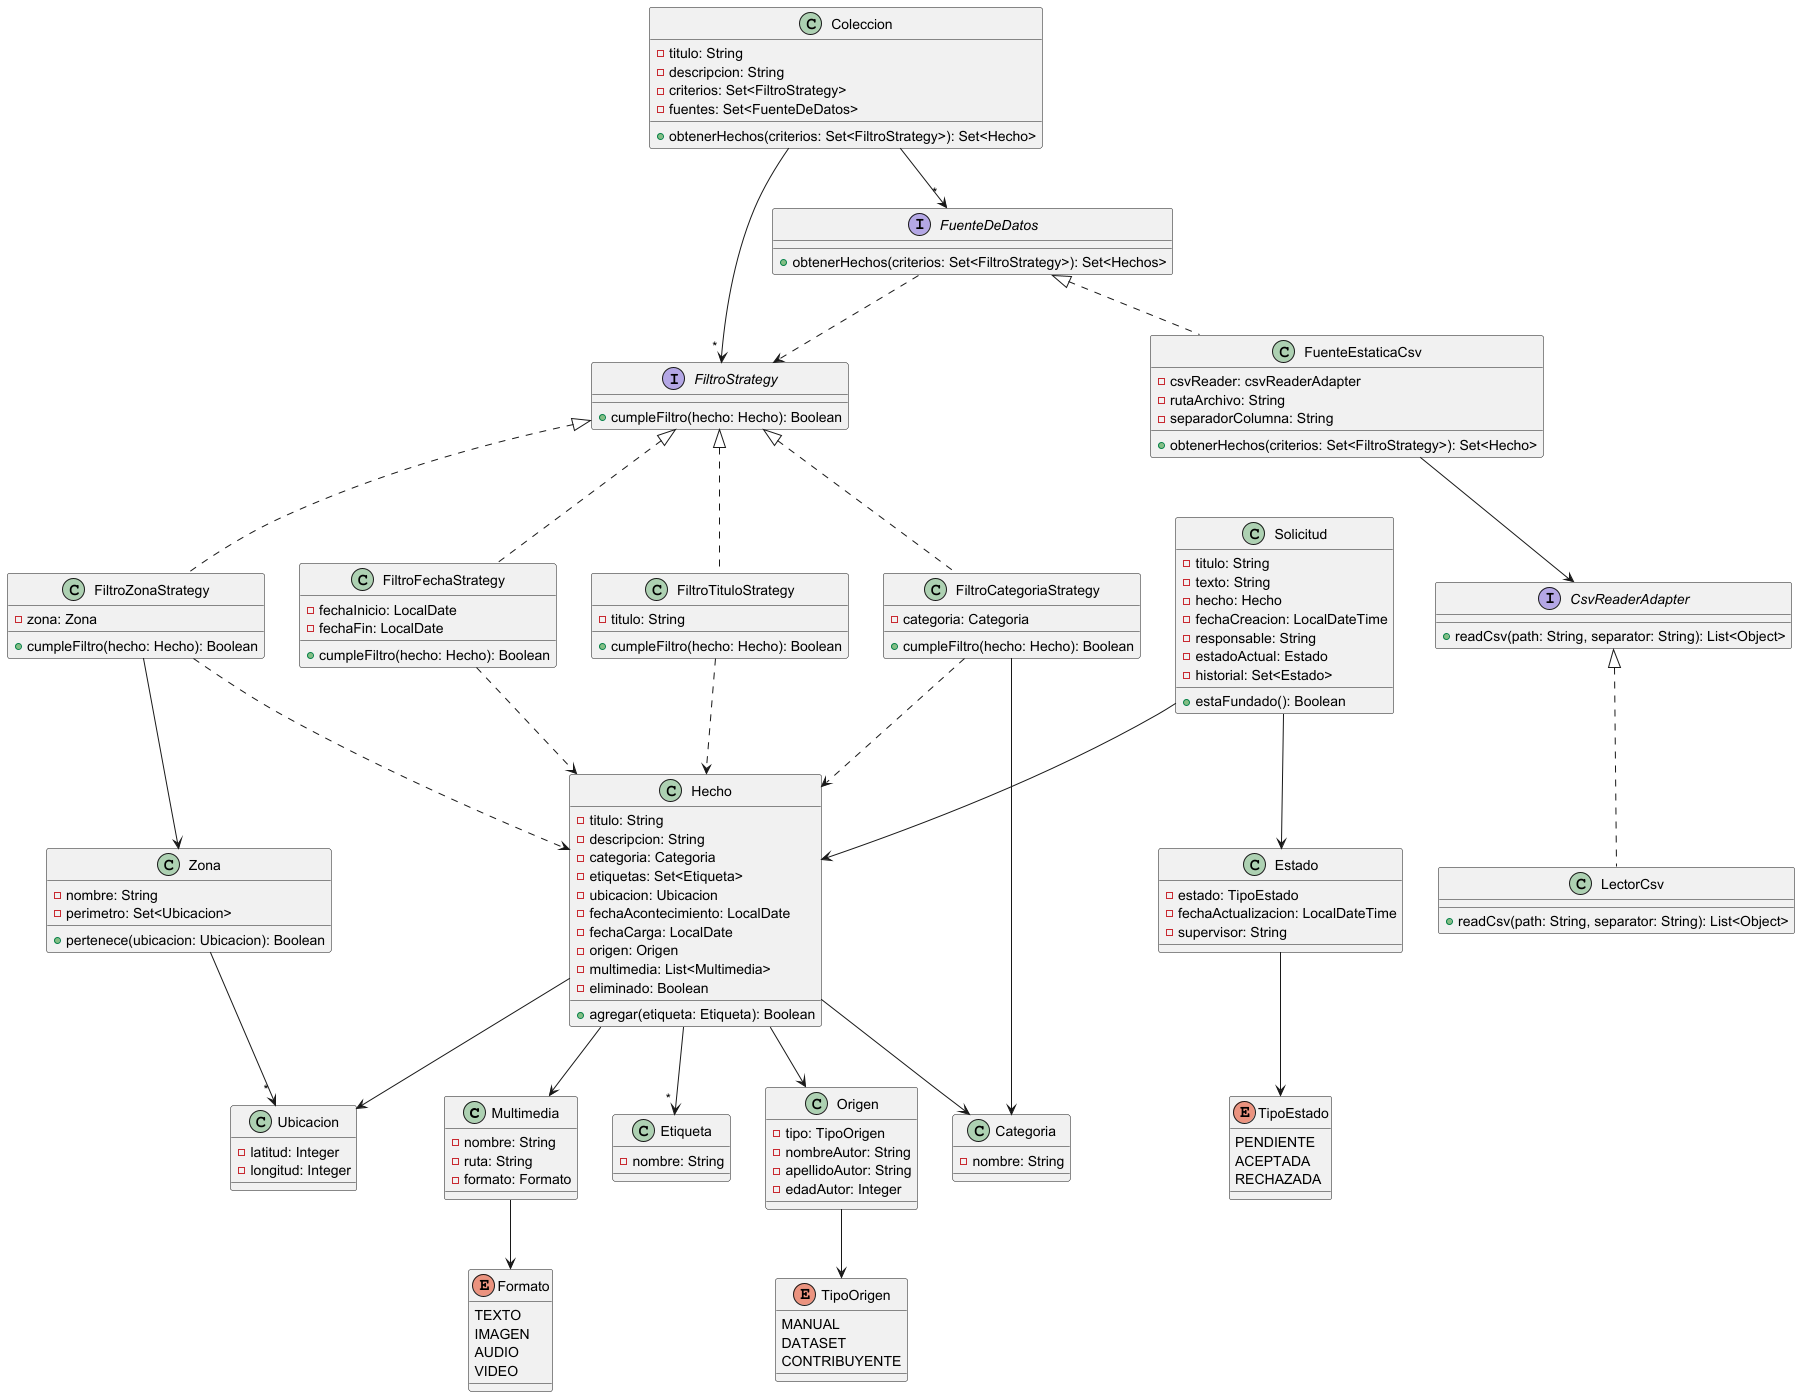
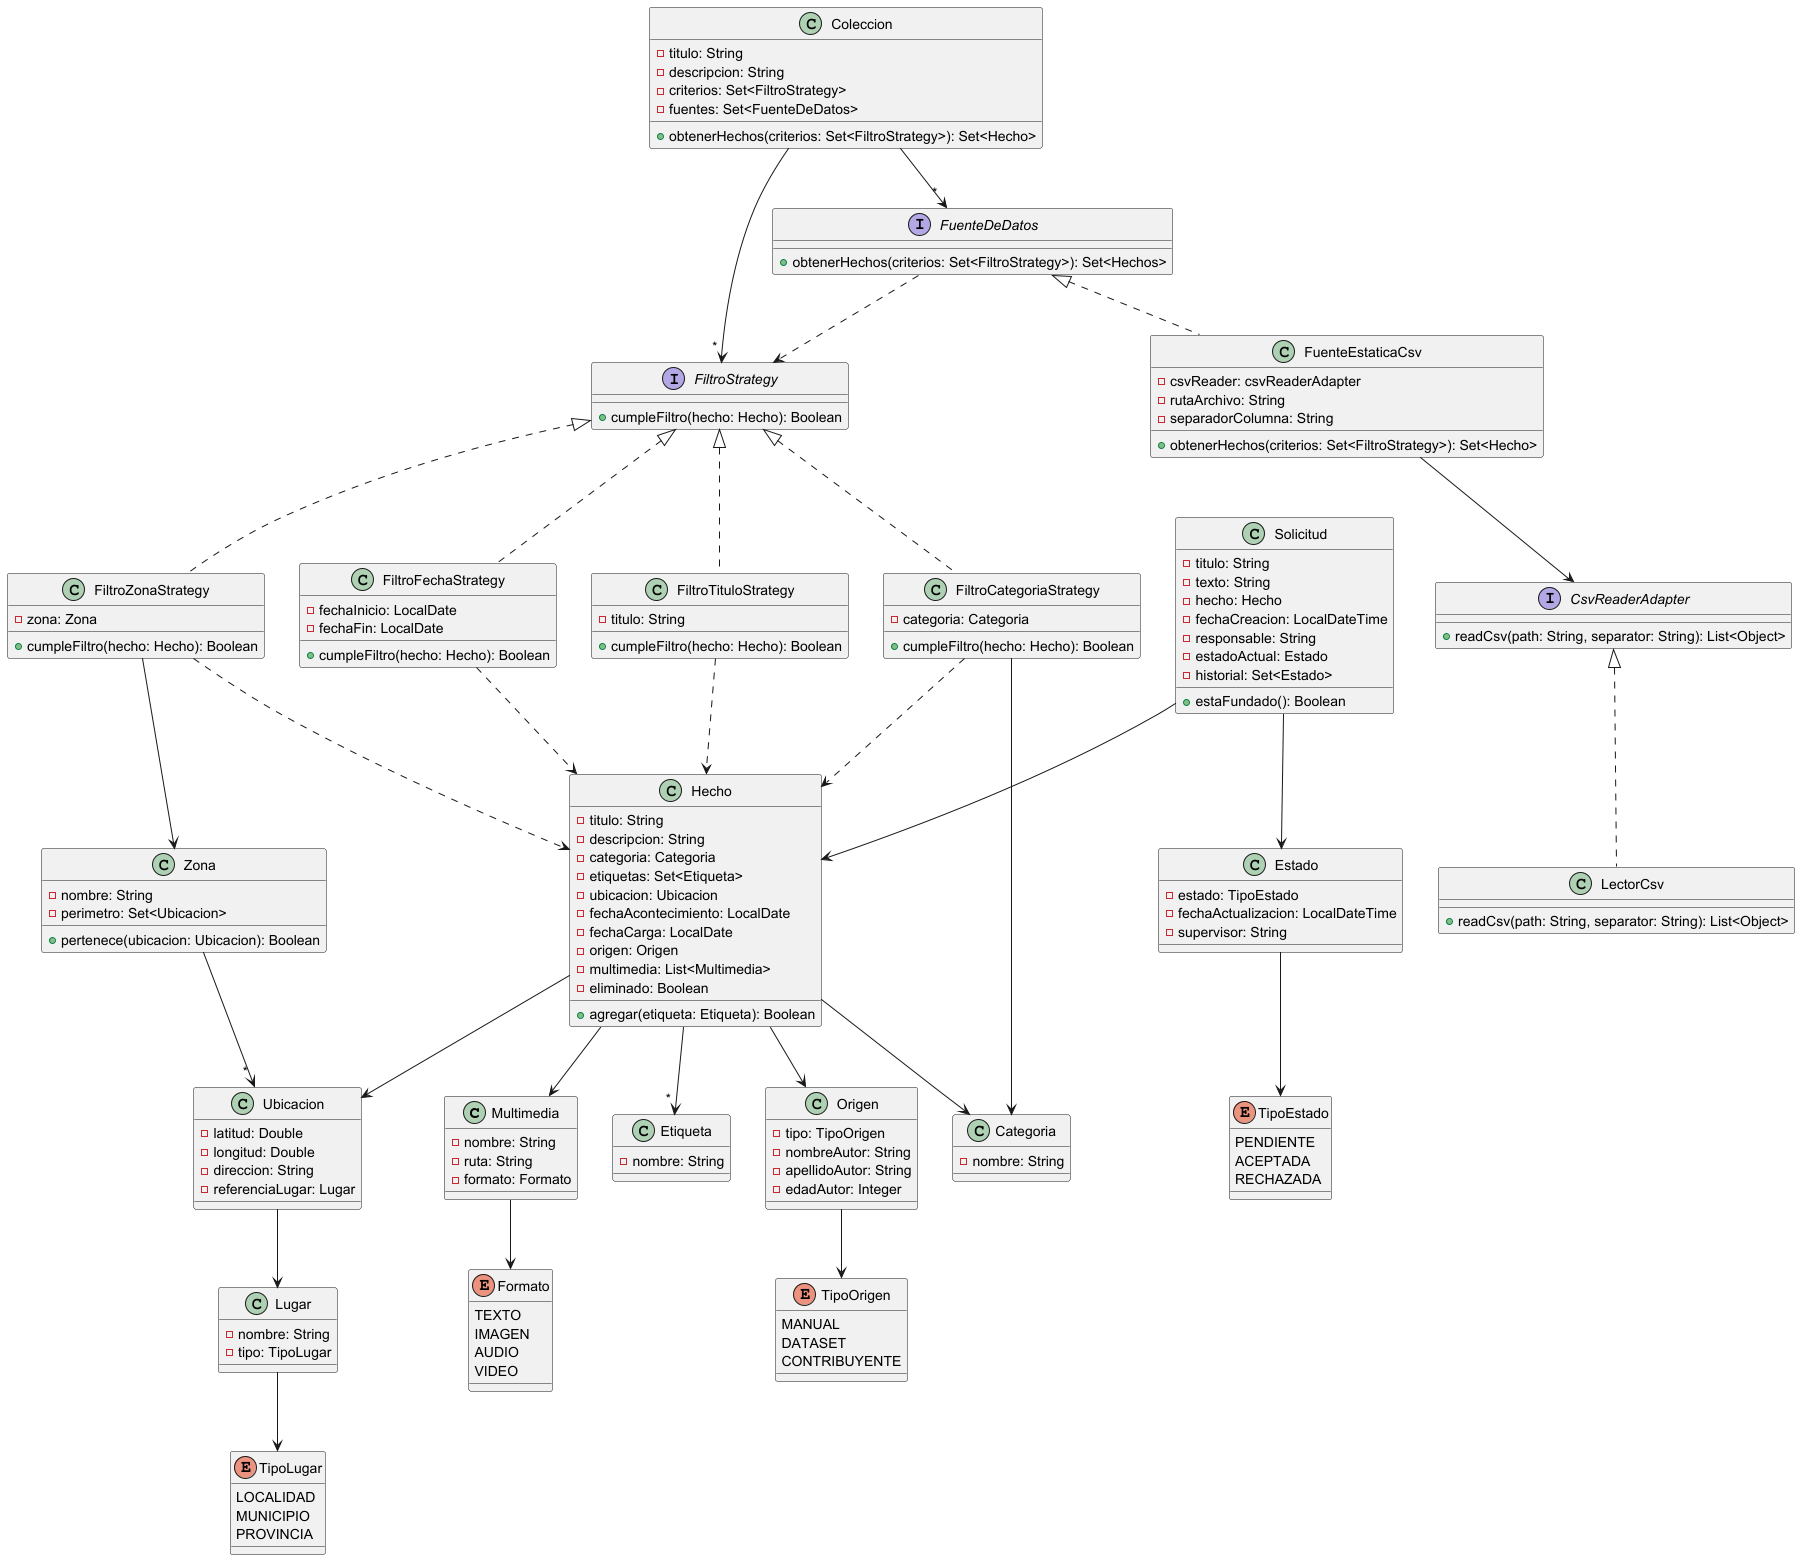
actualizo clase ubicacion agregando clase lugar

diff --git a/src/main/java/ar/edu/utn/frba/dds/entities/Ubicacion.java b/src/main/java/ar/edu/utn/frba/dds/entities/Ubicacion.java
@@ -6,6 +6,8 @@ import lombok.Getter;
 public class Ubicacion {
   private Double latitud;
   private Double longitud;
+  private String direccion;
+  private Lugar referenciaLugar;
 
   public Ubicacion(Double latitud, Double longitud) {
     this.latitud = latitud;

diff --git a/src/main/java/ar/edu/utn/frba/dds/entities/Lugar.java b/src/main/java/ar/edu/utn/frba/dds/entities/Lugar.java
@@ -1,0 +1,8 @@
+package ar.edu.utn.frba.dds.entities;
+
+import ar.edu.utn.frba.dds.enums.TipoLugar;
+
+public class Lugar {
+  private String nombre;
+  private TipoLugar tipo;
+}

diff --git a/src/main/java/ar/edu/utn/frba/dds/enums/TipoLugar.java b/src/main/java/ar/edu/utn/frba/dds/enums/TipoLugar.java
@@ -1,0 +1,7 @@
+package ar.edu.utn.frba.dds.enums;
+
+public enum TipoLugar {
+  MUNICIPIO,
+  LOCALIDAD,
+  PROVINCIA
+}
